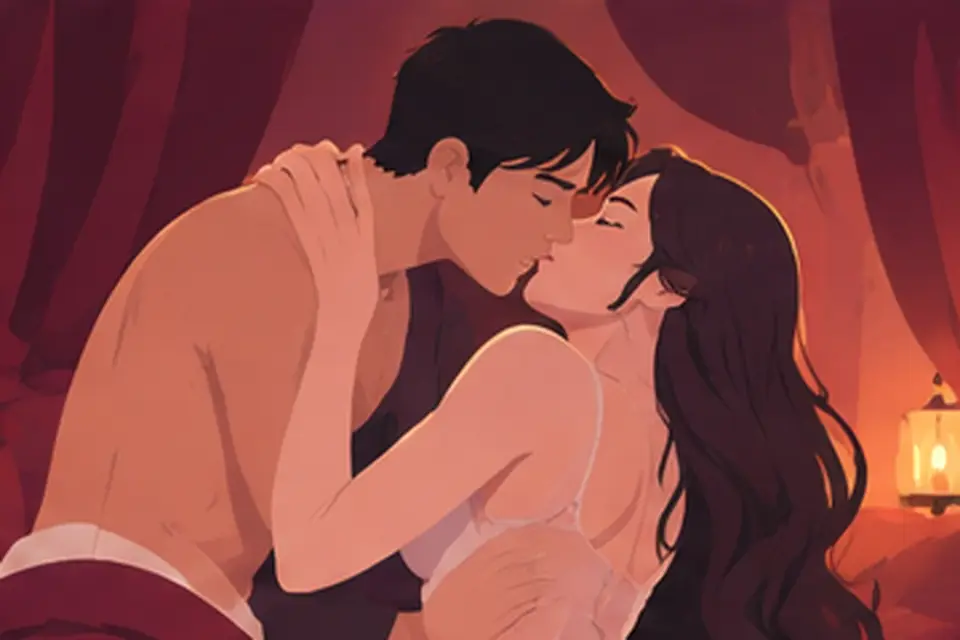
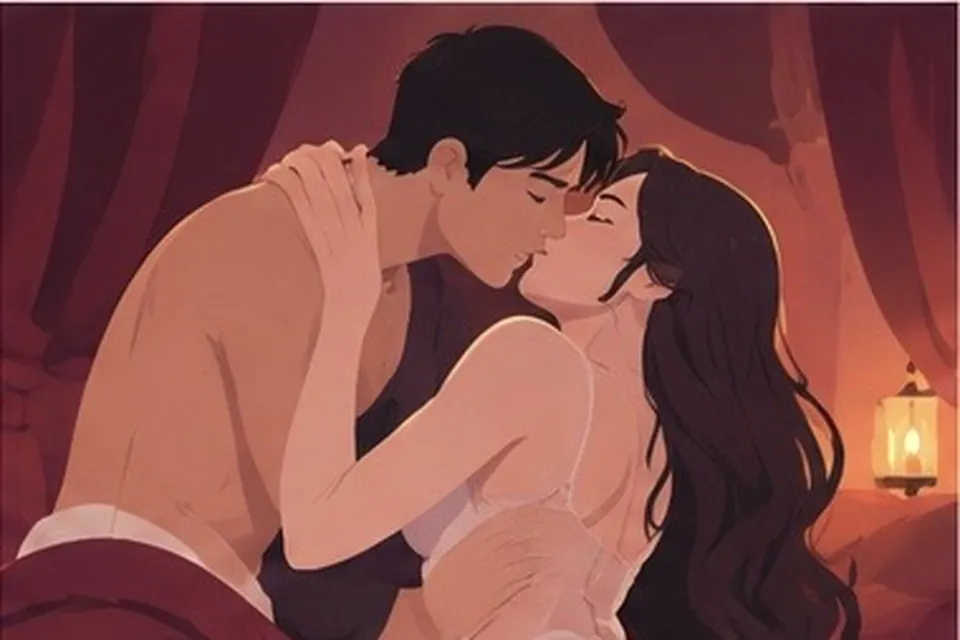
Thay ảnh đêm nồng thắm; hiện giới tính và biểu tượng nam/nữ cho bạn bè, người yêu, kẻ thù
Claude-Session: https://claude.ai/code/session_01QqGqXQxSqqkeGxF3G6M28A

diff --git a/index.html b/index.html
@@ -1690,9 +1690,9 @@ function render(){
   $('#ageBtn').disabled=!S.alive;
 }
 function famIcon(p){return p.rel==='Cha'?'male':p.rel==='Mẹ'?'female':p.rel==='Vợ'||p.rel==='Chồng'?'rings':p.rel.startsWith('Con')&&p.age<6?'baby':p.sex==='f'?'female':'user'}
-function relIcon(r){return r.kind==='enemy'?(r.hate>=70?'skull':'rival'):r.kind==='lover'?'lover':'user'}
+function relIcon(r){return r.kind==='enemy'?(r.hate>=70?'skull':'rival'):r.kind==='lover'?'lover':r.sex==='f'?'female':r.sex==='m'?'male':'user'}
 function famRow(p){return`<button class="row" data-p="${p.id}"><span class="ri">${ic(famIcon(p),24)}</span><div><b>${esc(p.first)}</b><small>${p.rel} · ${p.age} tuổi${p.race&&p.race!==S.race?' · '+RACES[p.race].n:''}</small><div class="bond"><i style="width:${p.bond}%"></i></div></div><span class="tag">${p.bond}</span></button>`}
-function relRow(r){const E=r.kind==='enemy';return`<button class="row" data-r="${r.id}"><span class="ri${E?' foe':''}">${ic(relIcon(r),24)}</span><div><b>${esc(r.first)}</b><small>${r.age} tuổi · ${RACES[r.race].n}${E&&r.why?' · '+esc(r.why):''}</small><div class="bond${E?' hate':''}"><i style="width:${E?r.hate:r.bond}%"></i></div></div><span class="tag">${E?'Hận '+r.hate:r.bond}</span></button>`}
+function relRow(r){const E=r.kind==='enemy';return`<button class="row" data-r="${r.id}"><span class="ri${E?' foe':''}">${ic(relIcon(r),24)}</span><div><b>${esc(r.first)}</b><small>${r.age} tuổi · ${r.sex==='f'?'Nữ':r.sex==='m'?'Nam':''}${r.sex?' · ':''}${RACES[r.race].n}${E&&r.why?' · '+esc(r.why):''}</small><div class="bond${E?' hate':''}"><i style="width:${E?r.hate:r.bond}%"></i></div></div><span class="tag">${E?'Hận '+r.hate:r.bond}</span></button>`}
 function gRow(data,icn,title,sub,tag,dis,static_,rc){const inner=`<span class="ri ${rc||''}">${ic(icn,24)}</span><div><b>${title}</b>${sub?`<small>${sub}</small>`:''}</div>${tag?`<span class="tag">${tag}</span>`:''}`;return static_?`<div class="row">${inner}</div>`:`<button class="row" ${data} ${dis?'disabled':''}>${inner}</button>`}
 function rowBtn(data,title,sub,tag,dis){return`<button class="row" ${data} ${dis?'disabled':''}><div><b>${title}</b>${sub?`<small>${sub}</small>`:''}</div>${tag?`<span class="tag">${tag}</span>`:''}</button>`}
 const fxList=fx=>Object.entries(fx||{}).map(([k,v])=>`<li class="${v<0?'neg':''}">${v>0?'+':''}${v} ${SL[k]} mỗi năm</li>`).join('');
@@ -8798,7 +8798,7 @@ function heroesView(){const H=(S.world.heroes||[]).slice().reverse();let b='';
   return['Anh Hùng',b,'act']}
 {const d0=drawExt3;drawExt3=function(v){if(v==='heroes')return heroesView();return d0(v)}}
 {const a0=actExtra3;actExtra3=function(){let b=a0();const n=(S.world.heroes||[]).length;return b.replace('<p class="sec">Thiên hạ</p>','<p class="sec">Thiên hạ</p>'+gRow('data-open="heroes"','sword','Anh Hùng',S.flags.hero&&S.world.cat?'Bạn đang gánh sứ mệnh Anh Hùng':n?`${n} anh hùng được ghi danh`:'Chưa ai được ghi danh','',false))}}
-const GV='38';
+const GV='39';
 for(const e of EV)if(/^cru_/.test(e.id)){const c0=e.c;e.c=s=>!!(s.world&&s.world.cat&&CATS[s.world.cat.id])&&(!c0||c0(s))}
 {let guard=0;const s0=showNext;showNext=function(){try{s0();guard=0}catch(err){console.error(err);if(S&&S.pend&&S.pend.length){S.pend.shift();S.tmp=null;try{save()}catch(e){}}if(++guard<20)showNext();else{guard=0;closeModal();render()}}}}
 {const c0=choose;choose=function(i){try{c0(i)}catch(err){console.error(err);if(S&&S.pend&&S.pend.length){S.pend.shift();S.tmp=null}try{save();render()}catch(e){}closeModal();showNext()}}}
